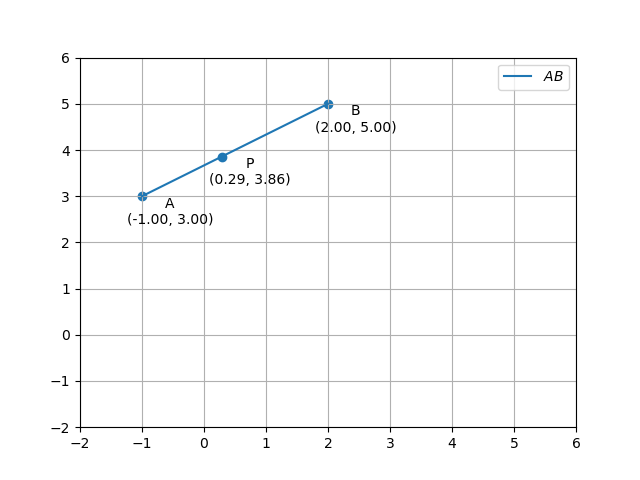
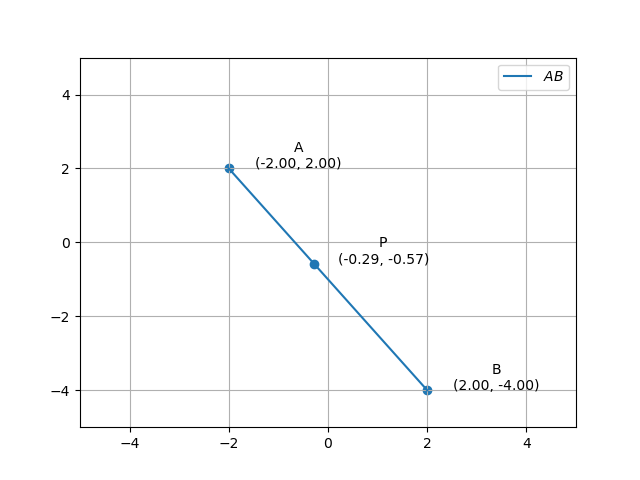
Fixed Values

diff --git a/Question_2/Codes/section.py b/Question_2/Codes/section.py
@@ -18,8 +18,8 @@ import shlex
 #end if
 
 #Given points
-A = np.array(([-1,3])).reshape(-1,1)
-B = np.array(([2,5])).reshape(-1,1)
+A = np.array(([-2,2])).reshape(-1,1)
+B = np.array(([2,-4])).reshape(-1,1)
 
 #Ratio
 n=4/3
@@ -42,14 +42,14 @@ for i, txt in enumerate(vert_labels):
     plt.annotate(f'{txt}\n({tri_coords[0,i]:.2f}, {tri_coords[1,i]:.2f})',
                  (tri_coords[0,i], tri_coords[1,i]), # this is the point to label
                  textcoords="offset points", # how to position the text
-                 xytext=(20,-20), # distance from text to points (x,y)
+                 xytext=(50,0), # distance from text to points (x,y)
                  ha='center') # horizontal alignment can be left, right or center
 
 ax = plt.gca()
 ax.plot()
 plt.legend(loc='best')
 plt.grid() 
-plt.axis([-2,6,-2,6])
+plt.axis([-5,5,-5,5])
 
 #if using termux
 #plt.savefig('chapters/10/7/2/1/figs/fig.pdf')
